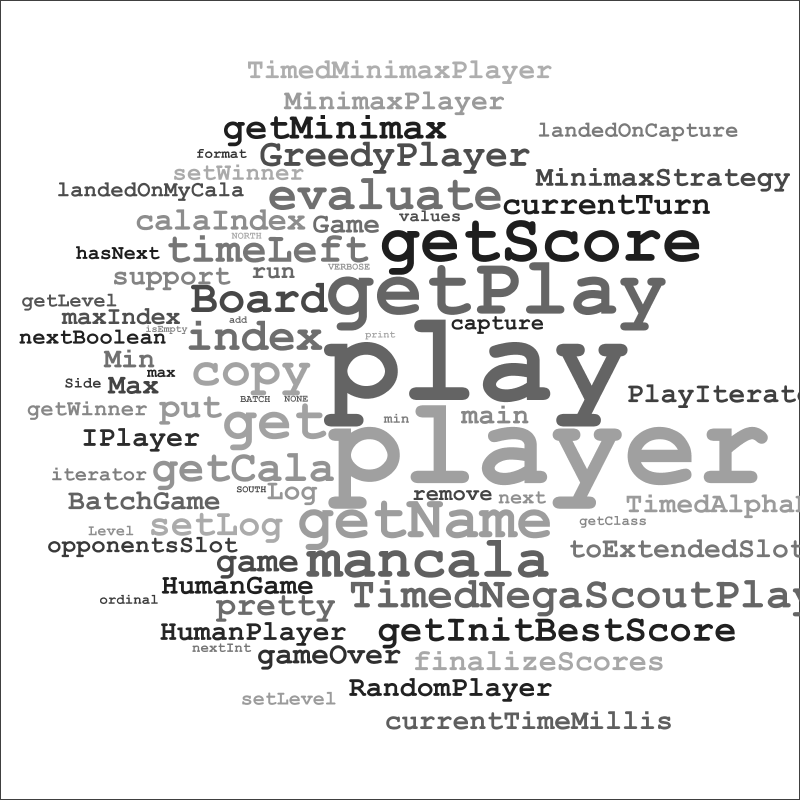
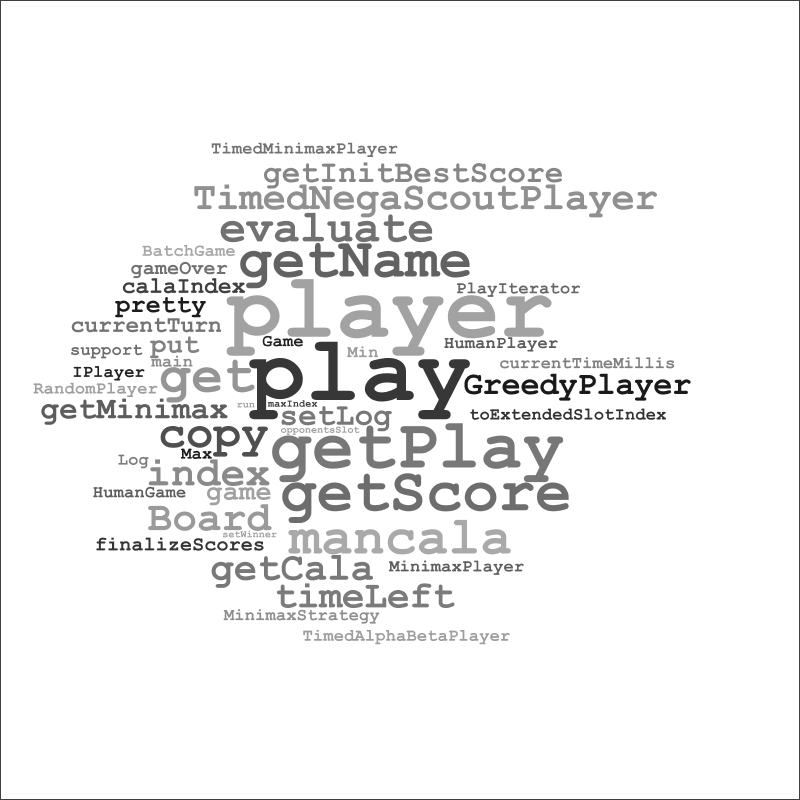
more tweaks for tests and visualizing

Changed region(s): [[0.0312, 0.0625, 1.0, 0.9375], [0.7812, 0.875, 0.8438, 0.9375], [0.1562, 0.75, 0.1875, 0.7812]]

diff --git a/src/test/java/org/chaoticbits/collabcloud/SummarizeRepo.java b/src/test/java/org/chaoticbits/collabcloud/SummarizeRepo.java
@@ -12,6 +12,7 @@ import java.awt.Shape;
 import java.awt.font.FontRenderContext;
 import java.awt.geom.AffineTransform;
 import java.awt.geom.Point2D;
+import java.awt.geom.Rectangle2D;
 import java.awt.image.BufferedImage;
 import java.io.File;
 import java.io.IOException;
@@ -34,11 +35,13 @@ import org.chaoticbits.collabcloud.visualizer.SpiralIterator;
 
 public class SummarizeRepo {
 	private static final File TEST_BED = new File("testgitrepo");
-	private static final Random rand = new Random(12345L);
+	// private static final File THIS_REPO = new File("");
+	// private static final String THIS_REPO_SECOND_COMMIT_ID = "4cfde077a84185b06117bcff5d47c53644463b1f";
+	private static final Random rand = new Random(1234567L);
 
 	private static org.apache.log4j.Logger log = org.apache.log4j.Logger.getLogger(SummarizeRepo.class);
 
-	private static final Intersector intersector = new Intersector(10, 0.5d);
+	private static final Intersector intersector = new Intersector(10, 0.1d);
 	private static final IHitCheck<Shape> checker = new IHitCheck<Shape>() {
 		public boolean hits(Shape a, Shape b) {
 			return intersector.intersect(a, b);
@@ -50,15 +53,18 @@ public class SummarizeRepo {
 
 	public static void main(String[] args) throws ParseException, IOException {
 		PropertyConfigurator.configure("log4j.properties");
-		CloudWeights weights = getWeights();
+		CloudWeights weights = getWeights(TEST_BED);
 		weights = new GitLoader(new File(TEST_BED.getAbsolutePath() + "/.git"), GitLoaderTest.SECOND_COMMIT_ID).crossWithDiff(weights);
+		// CloudWeights weights = getWeights(new File(THIS_REPO.getAbsolutePath() + "/src"));
+		// weights = new GitLoader(new File(THIS_REPO.getAbsolutePath() + "/.git"),
+		// THIS_REPO_SECOND_COMMIT_ID).crossWithDiff(weights);
 		System.out.println("==Weights after Diff Adjustment==");
 		System.out.println(weights);
 		layoutWords(weights);
 	}
 
-	private static CloudWeights getWeights() throws ParseException, IOException {
-		List<File> files = recurseFiles(TEST_BED);
+	private static CloudWeights getWeights(File dir) throws ParseException, IOException {
+		List<File> files = recurseFiles(dir);
 		CloudWeights weights = new CloudWeights();
 		for (File file : files) {
 			CompilationUnit unit = JavaParser.parse(file);
@@ -94,17 +100,22 @@ public class SummarizeRepo {
 		FontRenderContext frc = new FontRenderContext(null, true, true);
 		LastHitCache<Shape> placedShapes = new LastHitCache<Shape>(checker);
 		List<Entry<String, Double>> entries = weights.sortedEntries();
+		// Collections.shuffle(entries, rand);
 		for (Entry<String, Double> entry : entries) {
-			log.info("Laying out " + entry.getKey() + "...");
 			// TODO Convert weights to font sizes
-			// font = font.deriveFont(25f * (float) Math.log(entry.getValue()));
-			font = font.deriveFont(20f * (float) Math.sqrt(entry.getValue()));
+			float fontSize = 25f * (float) Math.log(entry.getValue());
+			if (fontSize < 6f)
+				continue;
+			log.info("Laying out " + entry.getKey() + "...");
+			font = font.deriveFont(fontSize);
+
+			// font = font.deriveFont(20f * (float) Math.sqrt(entry.getValue()));
 			char[] chars = entry.getKey().toCharArray();
 			// TODO Need a placement strategy
 			Point2D center = getStartingPlace();
-			SpiralIterator itr = new SpiralIterator(center, 400.0d, 500);
-			while (itr.hasNext()) {
-				Point2D next = itr.next();
+			SpiralIterator spiral = new SpiralIterator(center, 400.0d, 500);
+			while (spiral.hasNext()) {
+				Point2D next = spiral.next();
 				Shape nextShape = font.layoutGlyphVector(frc, chars, 0, chars.length, Font.LAYOUT_LEFT_TO_RIGHT).getOutline((float) next.getX(),
 						(float) next.getY());
 				if (!placedShapes.hitNCache(nextShape)) {
@@ -116,8 +127,8 @@ public class SummarizeRepo {
 					break;
 				} else {
 					if (entry.getKey().equals("getClass")) {
-//						 g2d.fill(nextShape);
-//						g2d.fillRect((int) next.getX(), (int) next.getY(), 3, 3);
+						// g2d.fill(nextShape);
+						g2d.fillRect((int) next.getX(), (int) next.getY(), 3, 3);
 					}
 				}
 			}
@@ -129,6 +140,6 @@ public class SummarizeRepo {
 
 	private static java.awt.geom.Point2D.Double getStartingPlace() {
 		// return new Point2D.Double(rand.nextInt(300) + 150f, rand.nextInt(300) + 150.0f);
-		return new Point2D.Double(325, 400);
+		return new Point2D.Double(250, 400);
 	}
 }

diff --git a/src/test/java/org/chaoticbits/collabcloud/visualizer/ShapeIntersectTest.java b/src/test/java/org/chaoticbits/collabcloud/visualizer/ShapeIntersectTest.java
@@ -43,7 +43,7 @@ public class ShapeIntersectTest {
 		assertTrue("they do intersect at a low depth", new Intersector(5).intersect(first, second));
 		assertFalse("they don't intersect at a high depth", new Intersector(6).intersect(first, second));
 	}
-	
+
 	@Test
 	public void fullWordNoIntersect() throws Exception {
 		Shape first = WordExample.APPLES_ORANGES_NO_INTERSECT.getFirst();
@@ -51,19 +51,38 @@ public class ShapeIntersectTest {
 		assertTrue("they do intersect at a low depth", new Intersector(7).intersect(first, second));
 		assertFalse("they don't intersect at a high depth", new Intersector(8).intersect(first, second));
 	}
-	
+
 	@Test
 	public void fullWordIntersect() throws Exception {
 		Shape first = WordExample.APPLES_ORANGES_INTERSECT.getFirst();
 		Shape second = WordExample.APPLES_ORANGES_INTERSECT.getSecond();
 		assertTrue("they do intersect at a low depth", new Intersector(10).intersect(first, second));
 	}
-	
-	@Test(timeout=1000)//disable this on debug...
+
+	// disable this timeout on debug...
+	@Test(timeout = 1000)
 	public void cutoffLeafTest() throws Exception {
 		Shape first = WordExample.AM_INSIDE_NOT_INTERSECT.getFirst();
 		Shape second = WordExample.AM_INSIDE_NOT_INTERSECT.getSecond();
-		Intersector intersector = new Intersector(1000, 0.5d);
+		Intersector intersector = new Intersector(1000, 0.7d);
 		assertFalse("a tougher intersection to not find with the cutoff leaf", intersector.intersect(first, second));
+	}
+
+	// disable this timeout on debug...
+	@Test(timeout = 1000)
+	public void cutoffLeafReallyCloseNoHit() throws Exception {
+		Shape first = WordExample.AM_REALLY_CLOSE_NO_INTERSECT.getFirst();
+		Shape second = WordExample.AM_REALLY_CLOSE_NO_INTERSECT.getSecond();
+		Intersector intersector = new Intersector(1000, 0.7d);
+		assertFalse("a tougher intersection to not find with the cutoff leaf", intersector.intersect(first, second));
+	}
+
+	// disable this timeout on debug...
+	@Test(timeout = 1000)
+	public void cutoffLeafReallyCloseHits() throws Exception {
+		Shape first = WordExample.AM_REALLY_CLOSE_INTERSECT.getFirst();
+		Shape second = WordExample.AM_REALLY_CLOSE_INTERSECT.getSecond();
+		Intersector intersector = new Intersector(1000, 0.5d);
+		assertTrue("a tougher intersection to find, uses the cutoff leaf", intersector.intersect(first, second));
 	}
 }

diff --git a/src/test/java/org/chaoticbits/collabcloud/visualizer/WordExample.java b/src/test/java/org/chaoticbits/collabcloud/visualizer/WordExample.java
@@ -14,8 +14,8 @@ import javax.imageio.ImageIO;
 public enum WordExample {
 
 	AM_SIMPLE_NOT_INTERSECT(bigA(), bigM()), AM_INSIDE_NOT_INTERSECT(bigA(), insideM()), AM_INTERSECT(bigA(), intersectM()), AM_INTERSECT2(
-			bigA(), intersectM2()), AM_REALLY_CLOSE_NO_INTERSECT(bigA(), reallyCloseM()), APPLES_ORANGES_NO_INTERSECT(apples(),
-			orangesNoIntersect()), APPLES_ORANGES_INTERSECT(apples(), oranges());
+			bigA(), intersectM2()), AM_REALLY_CLOSE_NO_INTERSECT(bigA(), reallyCloseM()), AM_REALLY_CLOSE_INTERSECT(bigA(),
+			reallyCloseMIntersect()), APPLES_ORANGES_NO_INTERSECT(apples(), orangesNoIntersect()), APPLES_ORANGES_INTERSECT(apples(), oranges());
 
 	public Shape getFirst() {
 		return first;
@@ -73,6 +73,11 @@ public enum WordExample {
 	private static Shape reallyCloseM() {
 		Font deriveFont = getFont().deriveFont(45f);
 		return makeShape(deriveFont, getFRC(), "m", 82, 70);
+	}
+	
+	private static Shape reallyCloseMIntersect() {
+		Font deriveFont = getFont().deriveFont(45f);
+		return makeShape(deriveFont, getFRC(), "m", 81, 94);
 	}
 
 	private static Shape apples() {

diff --git a/src/test/java/org/chaoticbits/collabcloud/visualizer/SpiralIteratorTest.java b/src/test/java/org/chaoticbits/collabcloud/visualizer/SpiralIteratorTest.java
@@ -3,6 +3,9 @@ package org.chaoticbits.collabcloud.visualizer;
 import static org.junit.Assert.*;
 
 import java.awt.geom.Point2D;
+import java.util.Iterator;
+
+import junit.framework.Assert;
 
 import org.junit.Test;
 
@@ -25,5 +28,22 @@ public class SpiralIteratorTest {
 	private void assertEquals(String message, Point2D exp, Point2D actual) {
 		org.junit.Assert.assertEquals(message + "(x)", exp.getX(), actual.getX(), 0.01);
 		org.junit.Assert.assertEquals(message + "(y)", exp.getY(), actual.getY(), 0.01);
+	}
+
+	@Test
+	public void isItsOwnIterator() throws Exception {
+		SpiralIterator itr = new SpiralIterator(new Point2D.Double(250, 250), 100.0d, 4);
+		assertSame("Uses itself for an iterator", itr, itr.iterator());
+	}
+
+	@Test
+	public void removeNotSupported() throws Exception {
+		Iterator<Point2D> iterator = new SpiralIterator(new Point2D.Double(250, 250), 100.0d, 4).iterator();
+		try {
+			iterator.remove();
+			fail("Exception should have been thrown.");
+		} catch (IllegalStateException e) {
+			Assert.assertEquals("Not supported.", e.getMessage());
+		}
 	}
 }

diff --git a/src/main/java/org/chaoticbits/collabcloud/vc/git/GitLoader.java b/src/main/java/org/chaoticbits/collabcloud/vc/git/GitLoader.java
@@ -27,7 +27,7 @@ import org.eclipse.jgit.storage.file.FileRepositoryBuilder;
 public class GitLoader implements IVersionControlLoader {
 
 	private static final double IN_DIFF_MULTIPLIER = 1.1;
-	
+	// private static final double IN_DIFF_INCREMENTER = 1;
 
 	private FileRepository repo;
 	private ObjectId since;
@@ -35,7 +35,7 @@ public class GitLoader implements IVersionControlLoader {
 	public GitLoader(File repoDir) throws IOException {
 		repo = new FileRepositoryBuilder().setGitDir(repoDir).readEnvironment().findGitDir().build();
 	}
-	
+
 	public GitLoader(File repoDir, String sinceSHA1) throws IOException {
 		repo = new FileRepositoryBuilder().setGitDir(repoDir).readEnvironment().findGitDir().build();
 		since = repo.resolve(sinceSHA1);
@@ -131,6 +131,7 @@ public class GitLoader implements IVersionControlLoader {
 			for (Entry<String, Double> entry : unsortedEntries) {
 				if (line.contains(entry.getKey())) {
 					weights.multiply(entry.getKey(), IN_DIFF_MULTIPLIER);
+					// weights.increment(entry.getKey(), IN_DIFF_INCREMENTER);
 				}
 			}
 		}
